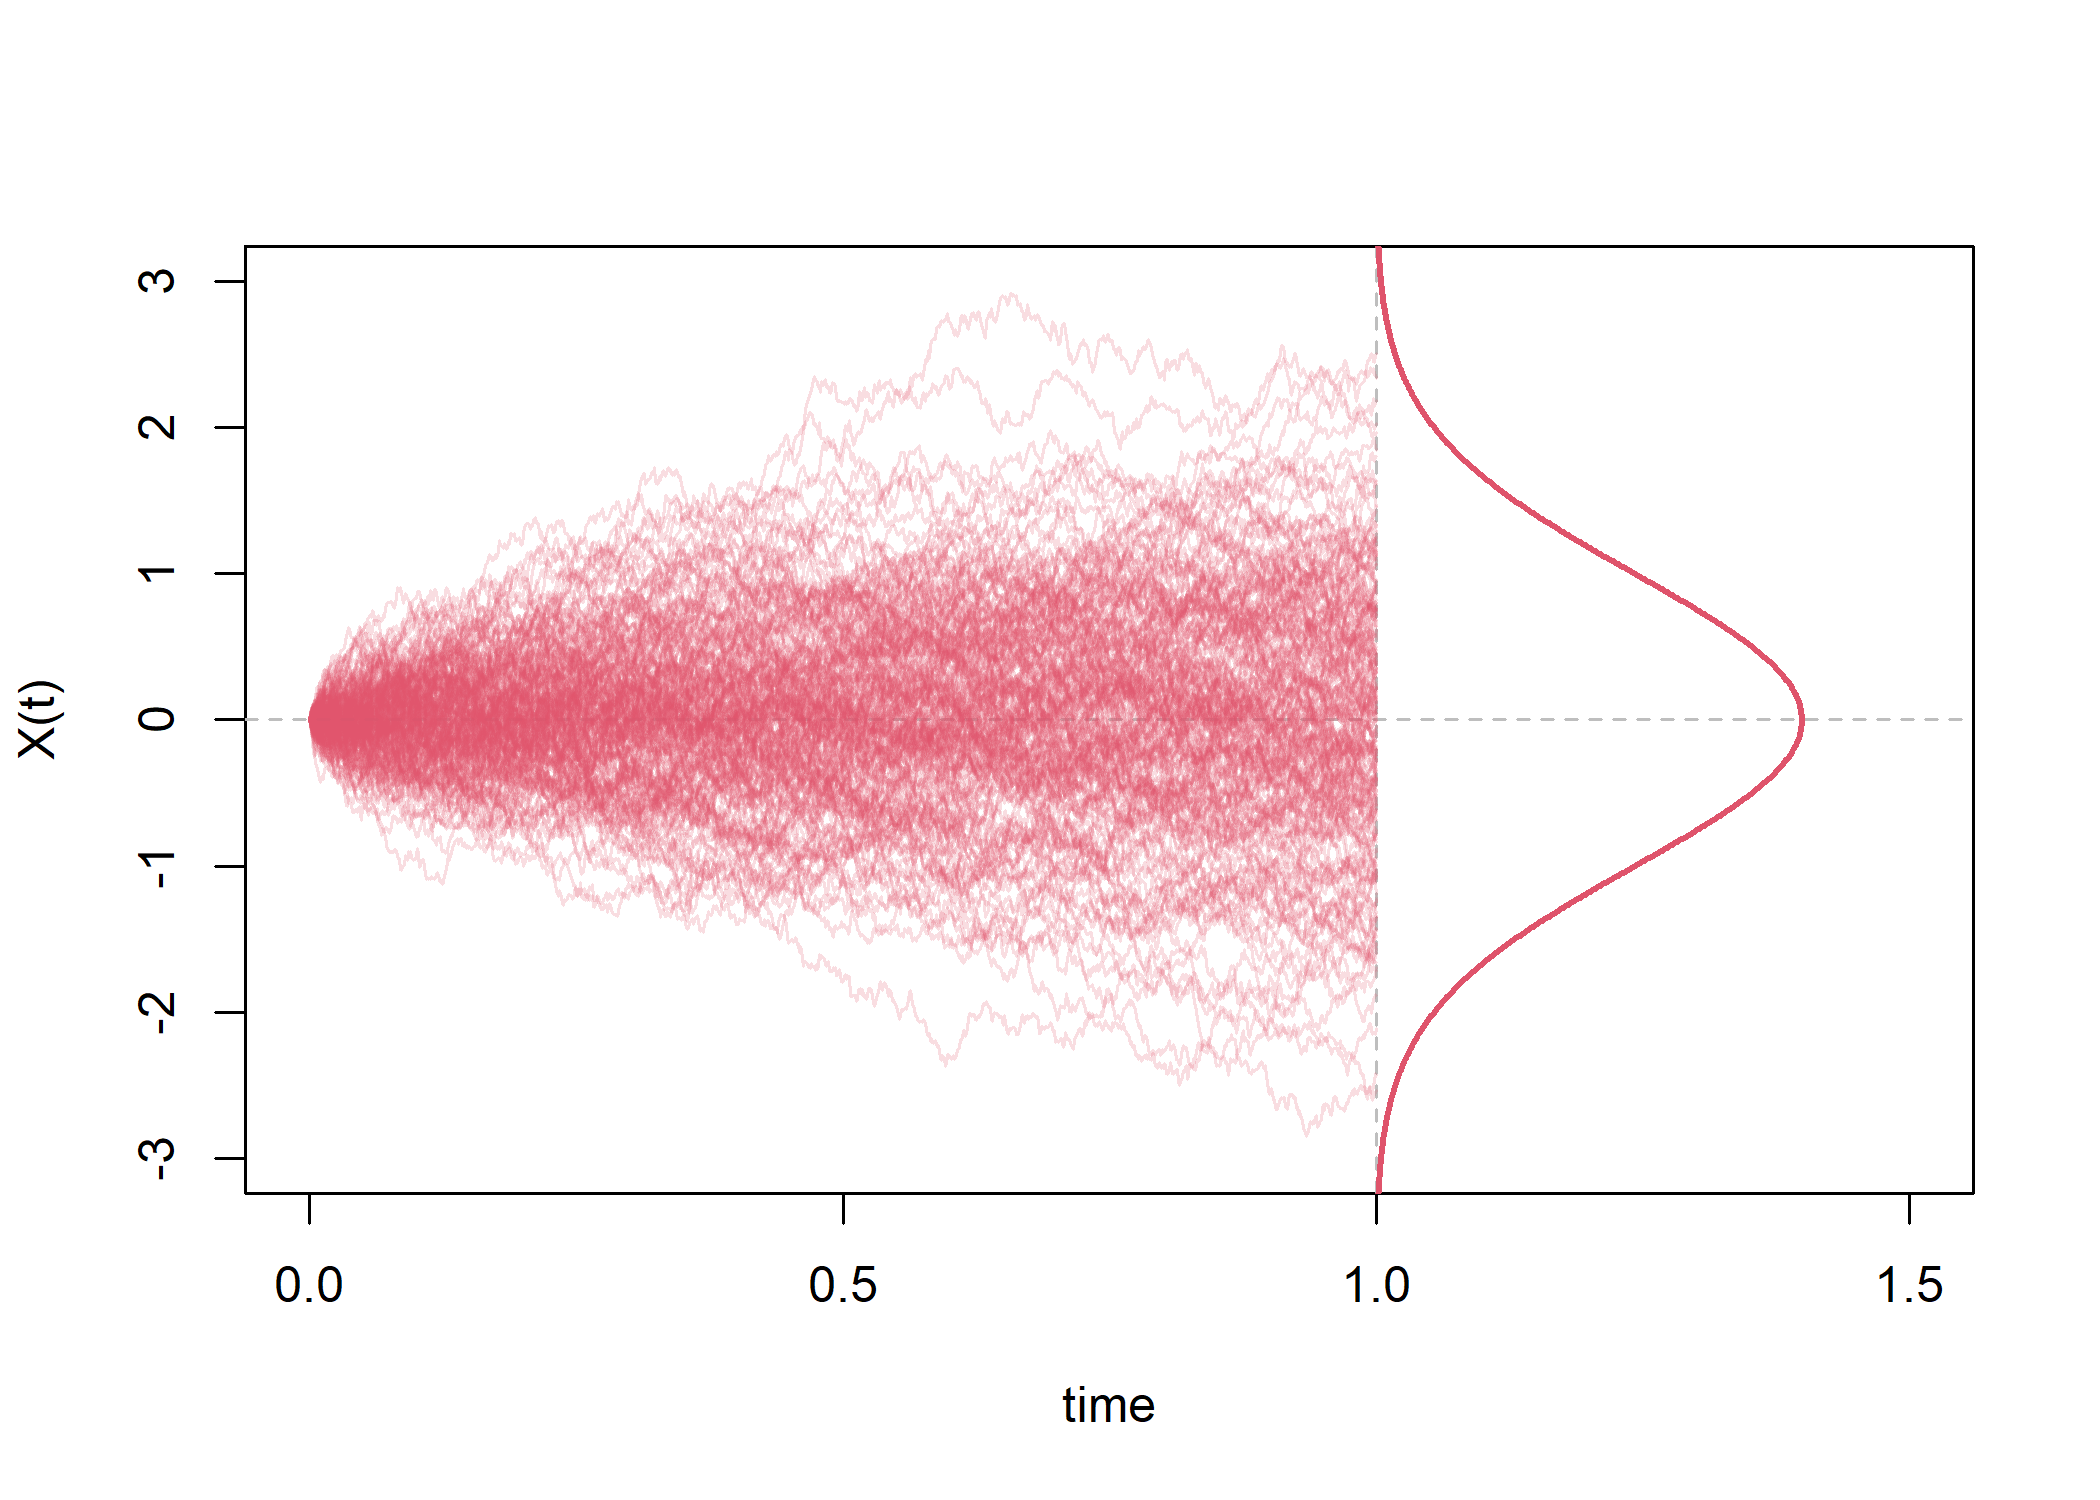
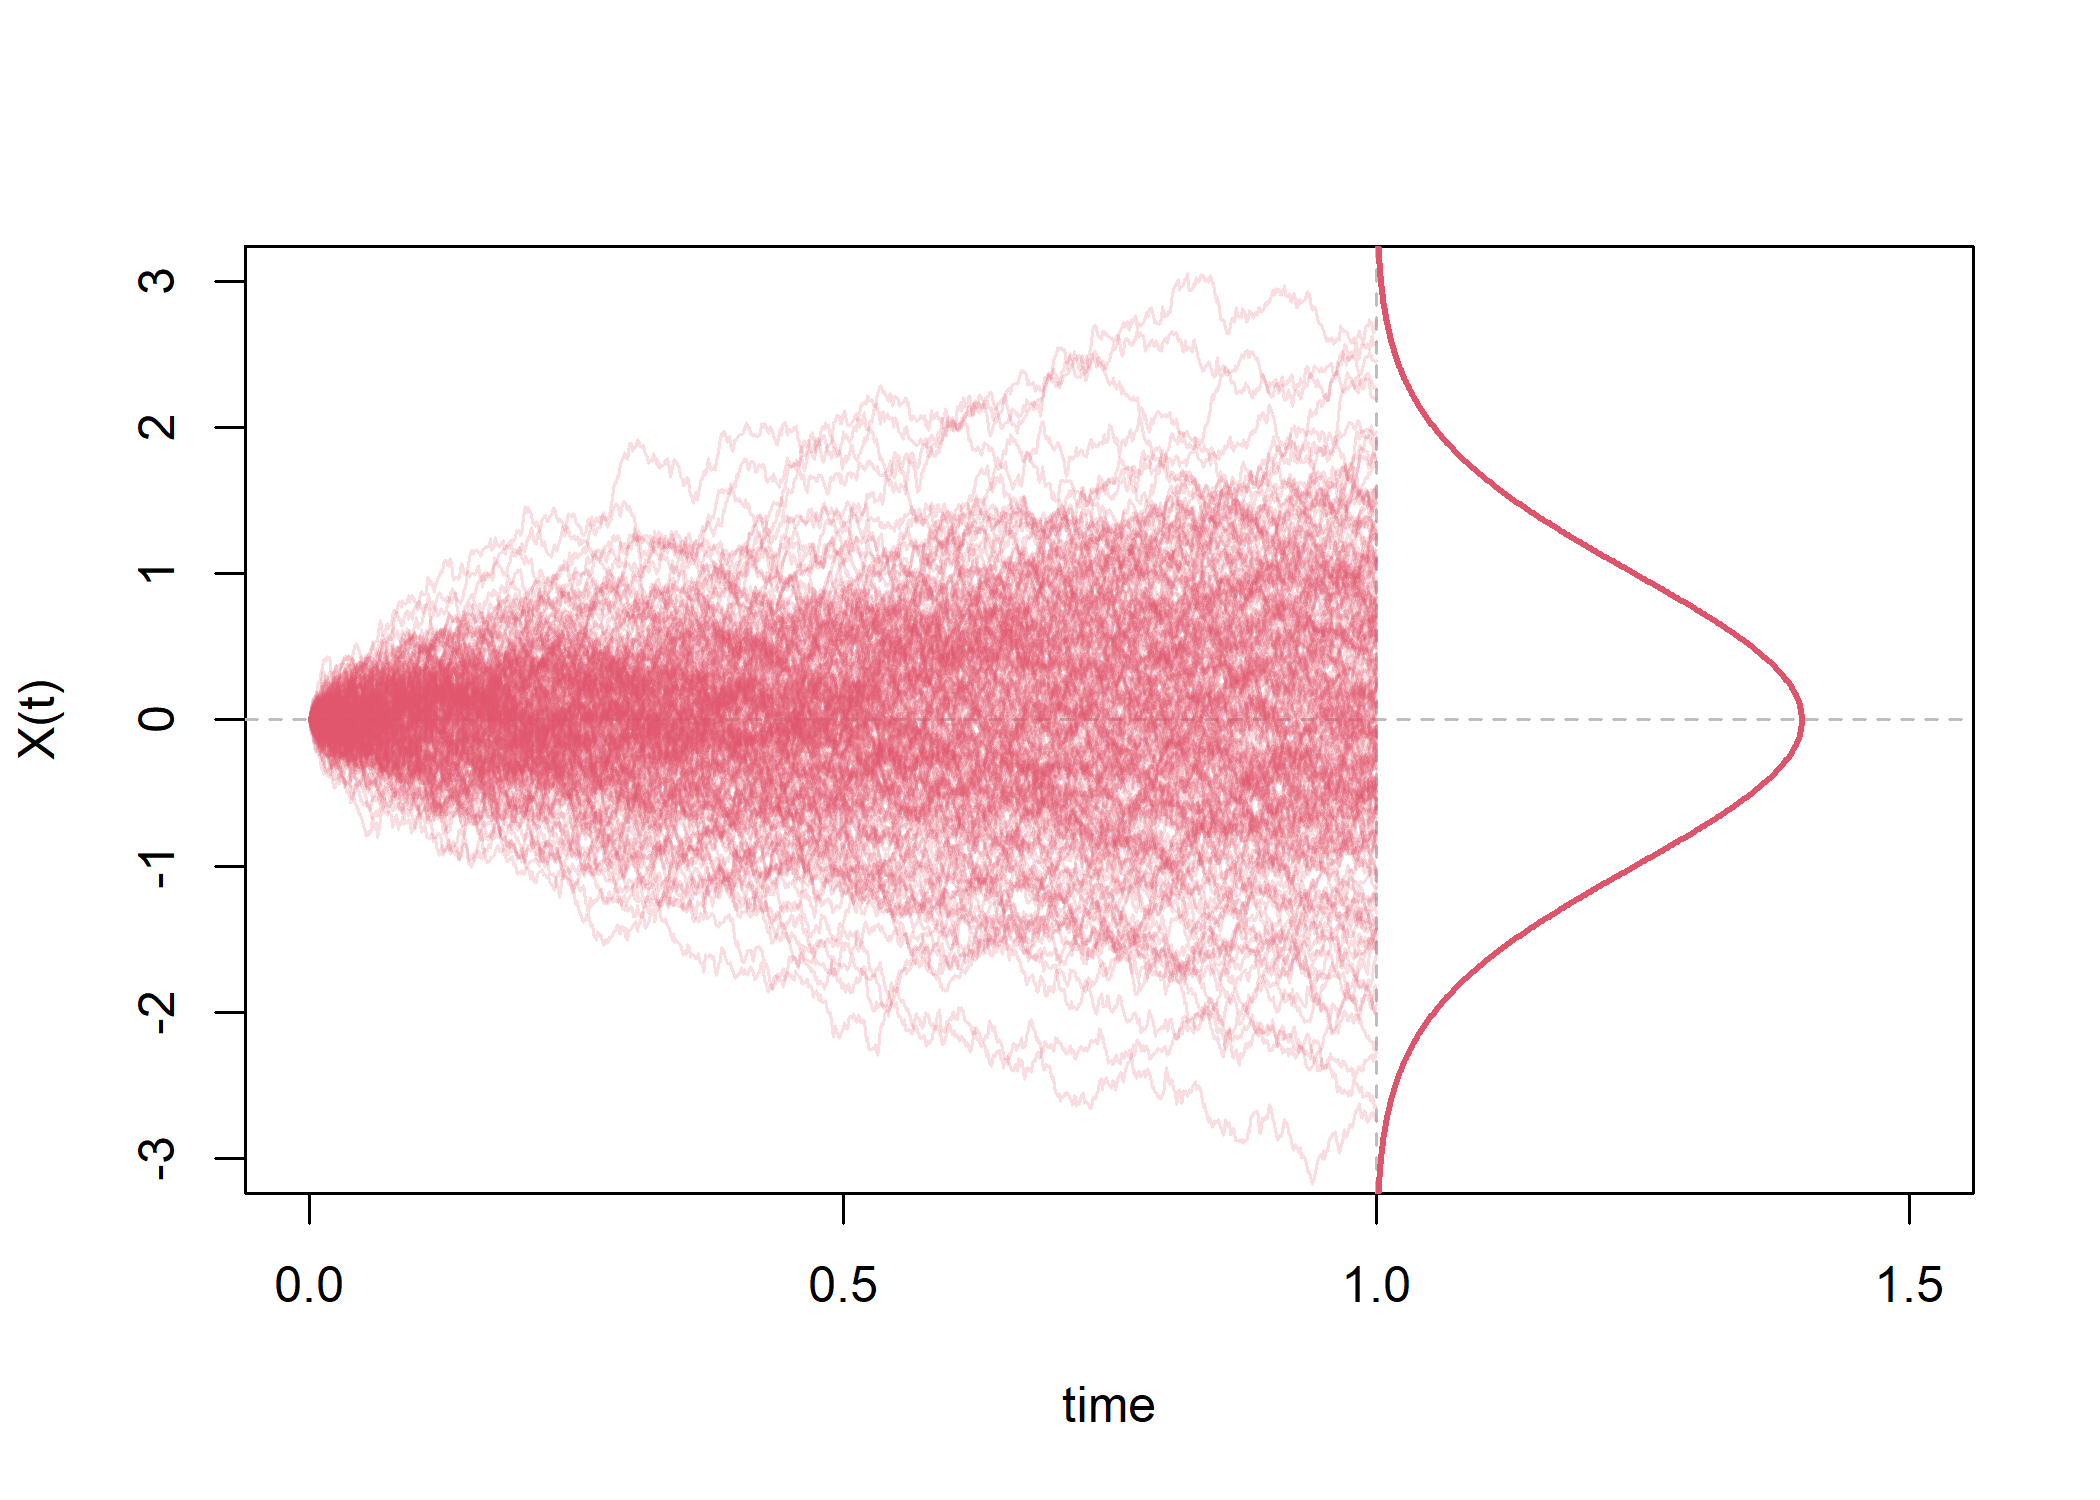
fix typo

Changed region(s): [[0.1548, 0.184, 0.681, 0.7667], [0.4643, 0.184, 0.4952, 0.2147]]

diff --git a/inst/cases/brownian/README.md b/inst/cases/brownian/README.md
@@ -63,7 +63,6 @@ for (r in 1:R)
 ![](README_files/figure-commonmark/unnamed-chunk-3-1.png)
 
 ``` r
-set.seed(2024)
 R = 200
 t = 1
 x = replicate(R, W(t=t)$w)
@@ -168,7 +167,7 @@ x = replicate(5000, rev(W2(drift=1, scale=2, t=2)$w)[1])
 ``` r
 # Simulate positions at t=1 for 5000 Brownian motions (drift=1, scale=2)
 plot(1, type="n", xlab="X", ylab="Density", 
-     main = "Density of X(t = 1)",
+     main = "Density of X(t = 2)",
      xlim=c(-6.5,11), ylim=c(0,.15))
 hist(x, probability=T, add=T, breaks=50)
 curve(dnorm(x,1*2, 2*sqrt(2)), from=-15, to=15, add=T, col=2, lwd=2)
@@ -231,34 +230,6 @@ legend(3.3, 1.1,
 ```
 
 ![](README_files/figure-commonmark/unnamed-chunk-15-1.png)
-
-``` r
-# Params
-alpha = 2
-bias = beta = 0.6
-drift = delta = 0.1
-tau = 0.3
-
-# Check simulation by comparing to functions in RWiener
-N = 5000
-x = rW(N, alpha=alpha, bias=bias, drift=drift, tau=tau)
-x2 = rwiener(N, alpha=alpha,beta=bias,delta=drift,tau=tau)
-
-plot(1, type="n", xlab="RT", ylab="Density", ylim=c(0,1.1), xlim=c(0,5))
-lines(density(x$q[x$resp == "upper"]), lwd=2, col=2 )
-lines(density(x$q[x$resp == "lower"]), lwd=2, col=2, lty=2)
-
-lines(density(x2$q[x2$resp == "upper"]), lwd=2, col=4)
-lines(density(x2$q[x2$resp == "lower"]), lwd=2, col=4, lty=2)
-
-legend(3.5, 1, 
-       legend = c("rW(): upper", "rW(): lower", "rwiener(): upper", "rwiener(): lower"),
-       col    = c(2, 2, 4, 4),
-       lty    = c(1, 2, 1, 2),
-       lwd    = 2)
-```
-
-![](README_files/figure-commonmark/unnamed-chunk-16-1.png)
 
 ## See Also
 
